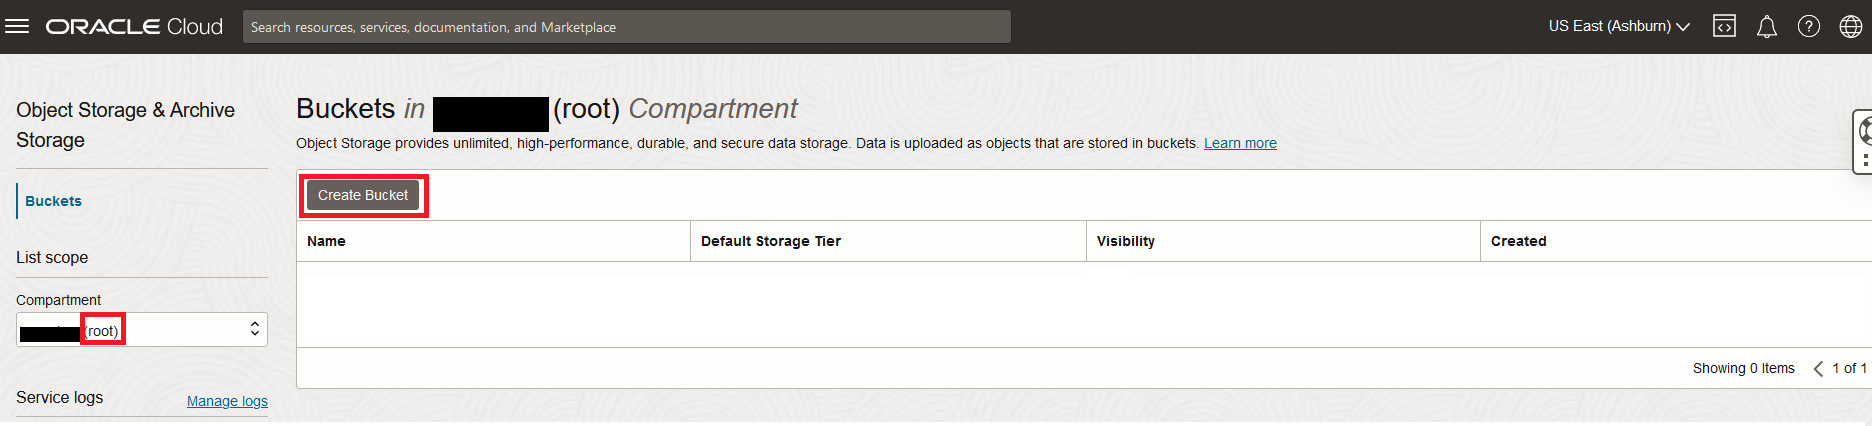
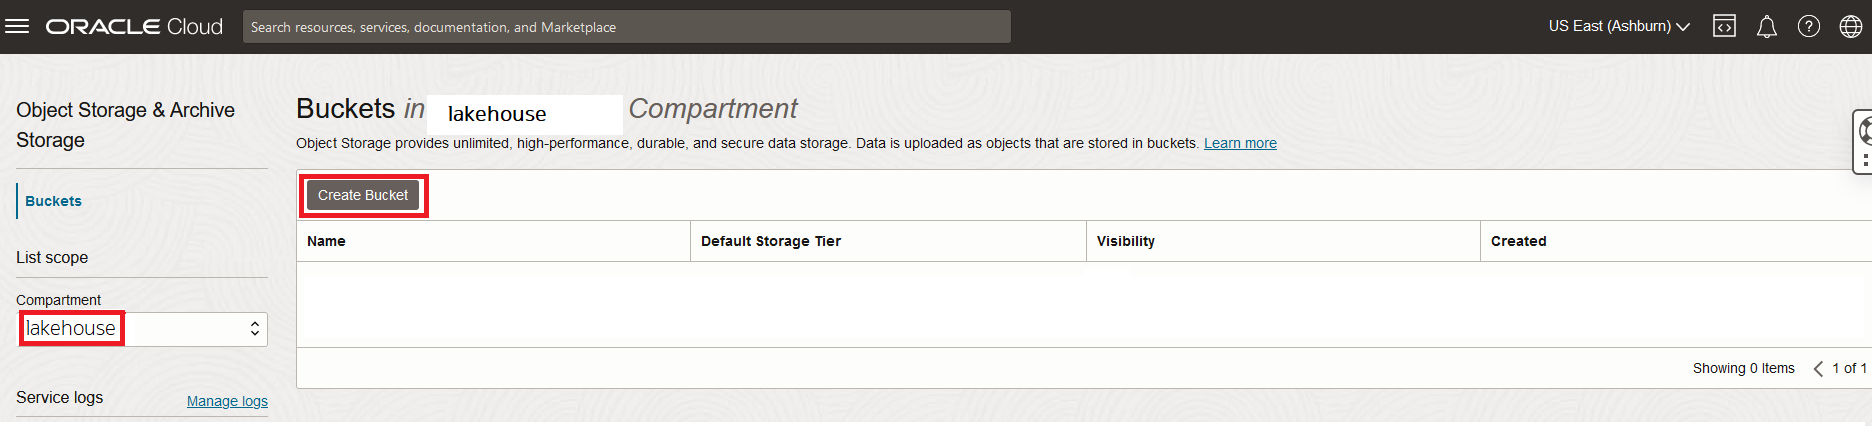
LWMS ID 11389:  Updated Lab3 with new Compartment  Lakehouse
LWMS ID 11389:  Updated Lab3 with new Compartment  Lakehouse

Changed region(s): [[0.2169, 0.2136, 0.3408, 0.3357], [0.0, 0.7019, 0.062, 0.8239]]

diff --git a/create-lakehouse-files/create-lakehouse-files.md b/create-lakehouse-files/create-lakehouse-files.md
@@ -68,7 +68,7 @@ A set of files have been created for you to use in this workshop. You will creat
 2. Under Object Storage, click Buckets
     ![bucket menu](./images/cloud-storage-menu.png "cloud storage menu")
 
-    **NOTE:** Ensure the correct Compartment is selected : Select **root**
+    **NOTE:** Ensure the correct Compartment is selected : Select **lakehouse**
 
 3. Click Create Bucket. The Create Bucket pane is displayed.
 
